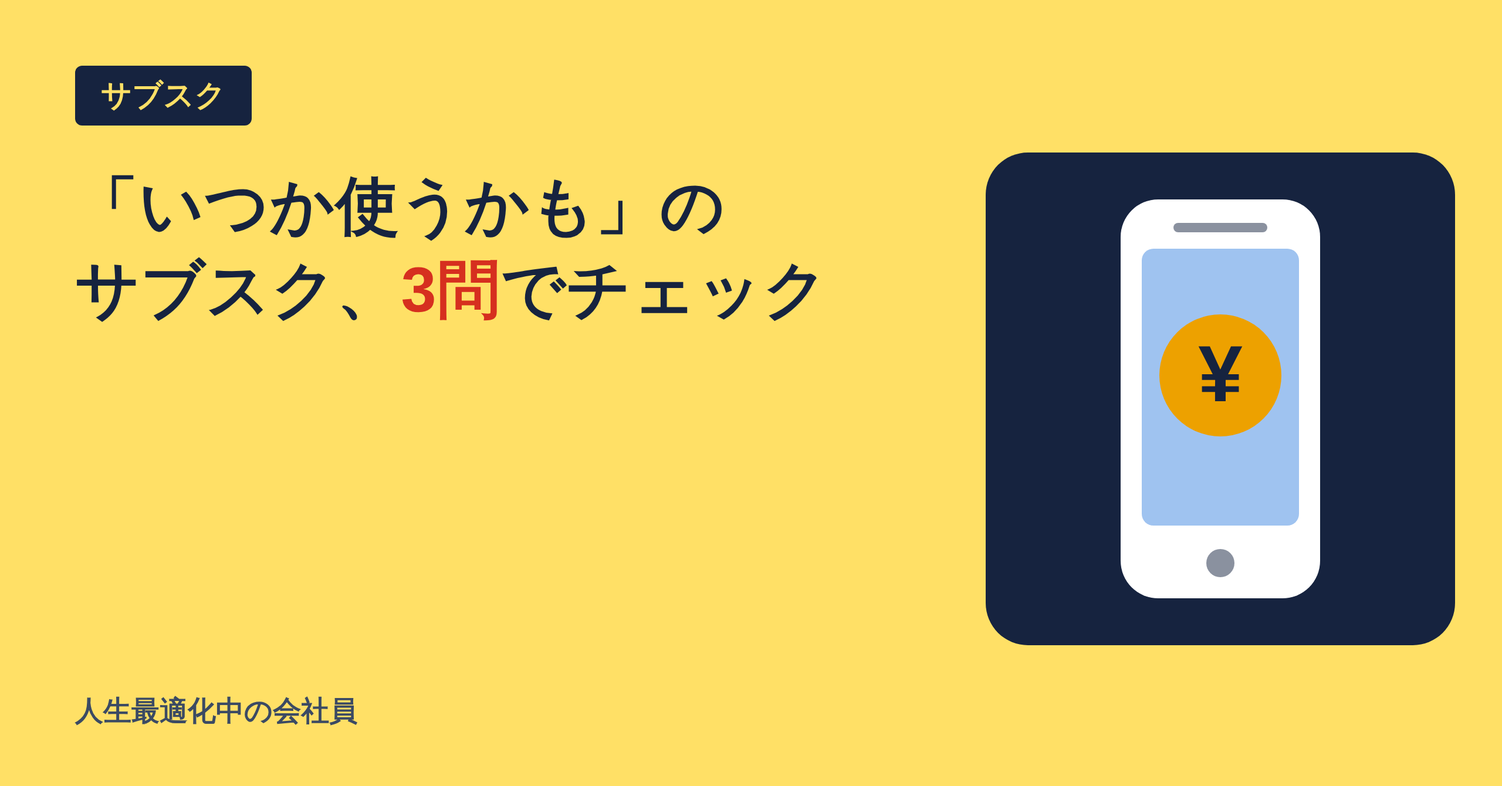
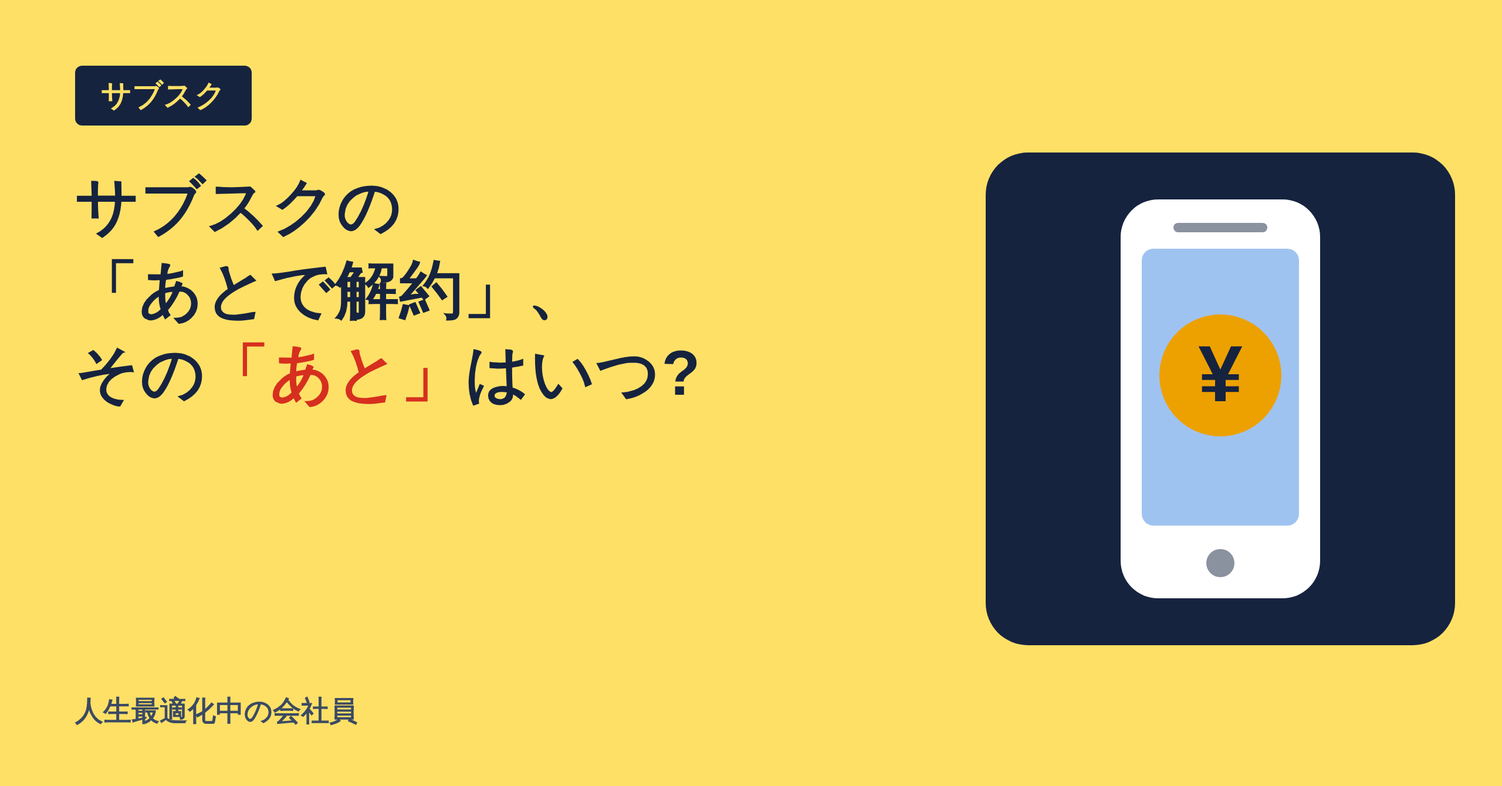
2026-10-27_001: title changed to 'あとで解約' version (owner chose option 3); 10-28_001 extra research
Claude-Session: https://claude.ai/code/session_019jxzMkHZEL8EPC28xkVZW1

Changed region(s): [[0.0312, 0.2142, 0.5625, 0.5201]]

diff --git a/runs/2026-10-28_001/01_research.md b/runs/2026-10-28_001/01_research.md
@@ -72,11 +72,108 @@
 - [S3] 【20代特に注意!】簡単に稼げるという副業 | 国民生活センター | https://www.kokusen.go.jp/news/data/n-20231027_1.html | 公開日:2023-10-27 | 取得日:2026-10-28 | 信頼度:高(約3年前の発表。古い)
 - [S4] No.1500 雑所得 | 国税庁 | https://www.nta.go.jp/taxes/shiraberu/taxanswer/shotoku/1500.htm | 公開日:2026-04-01(「令和8年4月」時点の法令等と確認) | 取得日:2026-10-28 | 信頼度:高
 - [S5] No.1900 給与所得者で確定申告が必要な人 | 国税庁 | https://www.nta.go.jp/taxes/shiraberu/taxanswer/shotoku/1900.htm | 公開日:2026-04-01(「令和8年4月1日現在法令等」と記載) | 取得日:2026-10-28 | 信頼度:高
-- [S6] 「ふなばし健康ポイント」とは? | 船橋市公式ホームページ | https://www.city.funabashi.lg.jp/kenkou/iryou/011/p064712.html | 公開日:2026-10-28(掲載日の記載なし。確認できた日付=取得日。獲得期間は令和8年4月1日〜令和9年3月31日) | 取得日:2026-10-28 | 信頼度:高
+- [S6] 「ふなばし健康ポイント」とは? | 船橋市公式ホームページ | https://www.city.funabashi.lg.jp/kenkou/iryou/011/p064712.html | 公開日:2026-10-28(掲載日の記載なし。確認できた日付=取得日。獲得期間は令和8年4月1日〜令和9年3月31日) | 取得日:2026-10-28 | 信頼度:高(追加調査で再度開き、ページの更新日が令和8年4月1日と確認。下のS6補足を参照)
 - [S7] 都政モニターの募集(令和8年度) | 東京都 政策企画局 | https://www.metro.tokyo.lg.jp/information/press/2026/04/2026042301 | 公開日:2026-04-23 | 取得日:2026-10-28 | 信頼度:高(募集は終了済み)
+- [S8] 国立映画アーカイブ ご利用案内(上映ホール・展示室の料金) | 国立映画アーカイブ(国の機関) | https://www.nfaj.go.jp/visit/goriyou/ | 公開日:2026-10-28(掲載日の記載なし。確認できた日付=取得日) | 取得日:2026-10-28 | 信頼度:高
+- [S9] 文化庁芸術祭「無料モニター」募集(令和8年度) | 文化庁 | https://www.bunka.go.jp/seisaku/geijutsubunka/jutenshien/geijutsusai/r08/94414001.html | 公開日:2026-10-28(掲載日の記載なし。確認できた日付=取得日。応募期間は令和8年8月7日〜9月2日) | 取得日:2026-10-28 | 信頼度:高(受付は終了済み)
+- [S10] eモニターアンケート | 船橋市公式ホームページ | https://www.city.funabashi.lg.jp/shisei/kouchou/002/p120231.html | 公開日:2026-10-06(ページの更新日) | 取得日:2026-10-28 | 信頼度:高(令和8年度の募集は終了済み)
+- [S11] インターネット都政モニター(令和8年度、応募受付終了) | 東京都 | https://www.metro.tokyo.lg.jp/tosei/iken-sodan/monitor | 公開日:2026-10-15(ページの更新日) | 取得日:2026-10-28 | 信頼度:高(受付は終了済み)
+- [S12] 国土交通行政インターネットモニターの募集について | 国土交通省 | https://www.mlit.go.jp/report/press/kanbo01_hh_000297.html | 公開日:2026-01-23 | 取得日:2026-10-28 | 信頼度:高(募集期間は2026-02-02〜02-27で終了済み)
+- [S13] 令和8年度 堺市 市政モニター | 堺市 | https://www.city.sakai.lg.jp/shisei/koho/kocho/shiseimonita/r8/shiseimonitor-R8.html | 公開日:2026-08-01(ページの更新日) | 取得日:2026-10-28 | 信頼度:高(募集は終了済み。対象・謝礼の記載なし)
 
 ### 開けなかった・未照合のページ(事実には使っていない)
 - TOHOシネマズ(tohotheater.jp)、TOHO(toho.co.jp)、セゾンカード(saisoncard.co.jp。シネマイレージ特約PDF)、ユナイテッド・シネマ、109シネマズ、イオンシネマ、Filmarks、impress Watch: 開けなかった(通信制限と思われる)。
 - 消費者庁の「簡単な副業をうたい高額なサポートプランを契約させる事業者に関する注意喚起」(令和7年6月26日、PDF): PDFが読めず、内容は未照合。国民生活センター2026-05-20の注意喚起(副業サポート名目の借り入れ)も、検索の要旨のみで未照合。
 - 消費者庁の消費者向け「景品表示法 運用基準」の本文: 開いていない。
 - 参考にした検索結果(未照合): appllio(2025-04-11)、J-CAST(2025-04-11)の各ページ。開いていないため、情報源の一覧には入れていない。
+
+---
+
+## 追加調査(2026-10-28 追記。持ち主の新方針「安全と確認できる公式の制度を、やり方を簡単に紹介する」ため)
+
+調べ方: 公的機関・自治体の公式ページを開いて本文を確認できたものだけを「確認できた制度」に書いた。開けない(名前解決エラー、404、PDFが読めない)もの、検索結果の要旨だけのものは「未照合」に分け、事実に使っていない。情報源は上の「情報源」の [S8]〜[S13] と、既出の [S6][S7]。
+
+### 追加調査の結論(先に)
+- 「今この瞬間に募集中で、本文を確認できた公式のモニター制度」は、今回は見つからなかった。確認できたモニター制度(東京都・船橋市・国土交通省・堺市・文化庁芸術祭)は、令和8年度の受付が終わっている。ただし、船橋市の「eモニター」は令和9年2月から募集予定と公式に書かれている [S10]。
+- 今も使える(常時または期間中)と本文で確認できたのは、国立映画アーカイブの料金・無料の案内 [S8] と、船橋市の健康ポイント(令和9年3月31日まで)[S6]。
+- 映画館・口コミサイトは今回も開けていない。映画を入口にするなら、公的機関の「国立映画アーカイブ」が、公式の本文で確認できる唯一の映画の材料。
+
+### 追加調査:確認できた制度(事実。各制度を「対象/もらえるもの/手順/期限・注意」に整理)
+
+#### 制度1 国立映画アーカイブ(映画の上映・展示室。国の機関)[S8]
+- 誰が対象か: 上映ホール(所蔵作品上映)は誰でも観られる。無料になるのは、上映ホールでは「障害者手帳の所持者(付添者は原則1名まで)」と「国立美術館キャンパスメンバーズ(国立映画アーカイブ利用校)の学生・教職員」。無料は当日券のみ。展示室は、高校生以下・18歳未満・65歳以上・障害者手帳の所持者(付添者は原則1名まで)・キャンパスメンバーズの学生・教職員が無料。
+- 何がもらえるか(公式の言葉): 「一般520円、高校・大学生と65歳以上は310円、小・中学生は100円」(上映ホール)。「一般250円/大学生130円」(展示室。20名以上の団体料金は一般200円、大学生60円)。展示室の無料観覧日は「5月18日(国際博物館の日)と11月3日(文化の日)」。上映の観覧券(半券可)を見せると、展示室で1回に限り団体料金が適用される。ポイントや現金がもらえる制度ではない。
+- 申し込みの手順: 上映の券は、オンラインか窓口で買う。窓口は現金、クレジットカード(Visa、Master)、交通系ICカードが使える。学生・65歳以上・障害者手帳・キャンパスメンバーズの人は、証明できるものを見せる。
+- 期限・注意: 特別上映や共催上映は、企画ごとに料金が違う。展覧会によって金額が違う場合がある。無料観覧日が月曜日に当たる場合は休館。毎月末の金曜日は20:00まで開室(入室は19:30まで)。ページに掲載日の記載はなく、取得日(2026-10-28)に確認。実際の上映作品・日程は、各上映ページを見る必要がある(今回は料金・チケット案内のページだけ確認。上映カレンダーの本文に料金の記載はなかった)。
+- 追加の確認: 同機関の企画展「没後70年 映画監督 溝口健二」は2026-08-11〜2026-12-13の会期と、機関のサイトに書かれていた(展示ページより。料金は未確認)。(推測)2026-11-03(文化の日)は展示室の無料観覧日のため、記事の公開時期と重なる。ただし溝口展が無料観覧日の対象かどうかは、ページに書かれていないので書かない。
+
+#### 制度2 健康ポイント(船橋市の例。自治体)[S6]
+- 誰が対象か: 市内在住・在勤・在学の18歳以上。
+- 何がもらえるか(公式の言葉): 歩数ポイントは「1日1回5P」、測定ポイントは「月1回50P」など。「500P以上で『ち～バリュ～カード』(協賛店で割引等)」、「1,000P以上で景品の抽選に応募できる」。景品は抽選で、当選ランクは獲得ポイントで決まる。「梅以上は全員が当たる」と書かれている。景品の内容は変更される場合がある。
+- 申し込みの手順: 参加方法は、スマホアプリ、活動量計、ICカード、「すこちゃん手帳」から選ぶ。手順の詳細は、ページからリンクされた「ふなばし健康ポイントの参加方法」に書かれている(今回そのページは未確認)。景品は1,000P以上で、希望のコースを選んで応募する。
+- 期限・注意: 参加期間は令和8年4月1日〜令和9年3月31日。景品の抽選応募期間は令和9年2月1日〜3月31日。「すこちゃん手帳」で応募する場合は4月15日までに提出。参加費用と、年度途中の参加の可否は、このページに記載なし。グループポイントは初年度のみ申し込みが必要。ページの更新日は令和8年4月1日。当選結果の発表は景品の発送をもって代えるとある。
+
+#### 制度3 eモニターアンケート(船橋市。自治体)[S10]
+- 誰が対象か: 船橋市に住む18歳以上。登録時に住民基本台帳と照合して本人確認をする。
+- 何がもらえるか: ページに謝礼の記載なし(報酬の金額は書けない)。
+- 申し込みの手順: ①登録する(募集期間中)。②登録から1か月以内に登録完了メールが届く(届かないときはページ下部のメールフォームで連絡)。③アンケートメールが届くので回答する(無記名)。④年度末に翌年度も続けるかを回答する。@city.funabashi.lg.jpのメールを受け取れる設定が必要。
+- 期限・注意: 令和8年度の募集は令和8年9月末に終了。令和9年度は「令和9(2027)年2月〜本ページにて募集予定」。月に1〜2回アンケート依頼メールが届き、1回の回答は5分ほどと書かれている。ページの更新日は令和8年10月6日。
+
+#### 制度4 インターネット都政モニター(東京都。自治体)[S7][S11]
+- 誰が対象か: 18歳以上で都内在住、個人のメールアドレスがある人。国・都・区市町村の職員は不可。定員は500名。[S7][S11]
+- 何がもらえるか(公式の言葉): 回答1回ごとに「500円の図書カード」か「500東京ポイント」。任期終了時にまとめて渡される。後から変更はできない。[S11]
+- 申し込みの手順: 令和8年度の応募期間は2026-05-12〜05-28(S7)で、現在は受付終了。応募の手順は、現在のページ [S11] には書かれていない。選考結果はメールで6月末までに知らせると書かれている(性別・年代・地域を考慮して選ぶ。先着ではない)。[S11]
+- 期限・注意: 任期は令和9年3月31日まで、年6回ほどのアンケート(約1か月おき)。次の募集時期は、今回の公式ページでは確認できていない。ページの更新日は令和8年10月15日。
+
+#### 制度5 文化庁芸術祭「無料モニター」(文化庁。国)[S9]
+- 誰が対象か: 鑑賞後のアンケートに協力できる人。未就学児は除く。舞台公演をあまり見たことがない人や、生徒・学生も応募できる。1名または2名で申し込める。
+- 何がもらえるか(公式の言葉): 対象公演を「無料で鑑賞できる」。交通費は支給されない。現金の報酬の記載はない。対象は舞台公演(歌舞伎、オーケストラ、バレエ、文楽、オペラなど)で、映画ではない。
+- 申し込みの手順: 応募フォームからのみ受け付け。応募が多い場合は抽選。入力内容に不備があると落選になる場合がある。当選者には9月中にメールで連絡、連絡がなければ落選。
+- 期限・注意: 令和8年度の受付は9月2日で終了(応募期間は令和8年8月7日〜9月2日)。鑑賞できるのは1人1公演。権利の譲渡や転売は禁止。鑑賞後のアンケート回答が必須。次年度の募集時期は確認できていない。
+
+#### 制度6 国土交通行政インターネットモニター(国土交通省。国)[S12]
+- 誰が対象か: 日本国内に住む18歳以上(令和8年4月1日現在)で、インターネットを使える人。議員、国土交通行政に関係する常勤の公務員、所管の独立行政法人等の役職員、その同居の親族は不可。募集は全国から1,000名程度。
+- 何がもらえるか: 発表ページには謝金の記載なし(募集要領PDFに書かれるとあるが、PDFは未確認)。金額は書けない。
+- 申し込みの手順: 募集期間中に、モニター専用サイト(https://www.monitor.mlit.go.jp/)の応募フォームから応募する。
+- 期限・注意: 令和8年度の募集期間は2026-02-02〜02-27で終了。モニターの仕事は、サイトに掲示されるアンケートへの回答など。
+
+#### 制度7 市政モニター(堺市の例。自治体)[S13]
+- 令和8年度の募集期間は5月1日〜5月31日で終了。応募者は756人で、住んでいる区域・性別・年齢などを考慮して抽選。対象・謝礼・応募手順は、このページに記載なし。ページの更新日は2026-08-01。記事では「市政モニターは多くの市で春ごろに募集し、抽選のことがある」という例として、1行で触れる程度が適当(推測)。
+
+### 追加調査:未照合(開けない・要旨だけ。事実に使わない)
+- 次の自治体の映画上映会などは、検索結果の要旨でしか確認できていない(公式ページは名前解決エラー・404・PDF読み取り不可で開けなかった)。いずれも未照合。
+  - 千葉市の「まくはり字幕上映会」(要旨: 2026-11-08、無料、定員先着50名、申込期間は10/1〜11/1)。
+  - 名古屋市昭和区の「親子ふれあい映画会」(要旨: 2026-08-05、無料。申込は終了)。
+  - 徳島市立図書館の夜の上映会(要旨: 無料、定員15名、2026-08-28と2027-03-27)。
+  - 岡山市立万富公民館「シアター万富」、愛知県みよし市の映画上映会、図書館の上映用サービス「みんなでシネマ」(いずれも要旨のみ)。
+- 市政・町のモニター(上山市、会津若松市、小樽市、仙台市、枚方市、北九州市、京都府)の募集状況と謝礼(図書カード、QUOカード、デジタルギフト500円分など)は、まとめサイトや検索の要旨の情報で、公式ページを開けていない。上山市と会津若松市は「随時募集」という記載があったが、まとめサイトの情報で、現在の募集かどうか未照合。
+- 厚生労働省「厚生労働行政モニター」(要旨: 令和8年度450人、年3回程度のアンケート): ページが404で開けず、未照合。
+- 健康ポイントの他の自治体(鶴岡市、見附市、白河市、旭市、福井市、新宿区など): PDFが読めない、または開けない。検索の要旨のみで、未照合。
+- 国立映画アーカイブの上映の料金について、第三者サイト(Tokyo Artbeat)にも金額の記載があったが、公式 [S8] と同じ金額で、第三者サイトは使わない。
+- 全国で「今、募集中」の公式モニターの網羅的な一覧は作れていない。映画館のポイント・割引日(TOHO、映画の日など)は、前回と同じく公式ページを開けず、未照合のまま。
+
+### 追加調査:推測・意見(AIの推測を含む)
+- (推測)「公式で今すぐ申し込める」制度が少ないので、記事は「今すぐ申し込む手順」ではなく、「探し方と、申し込みの流れの型」を中心にしたほうが、嘘のない記事になる。モニター制度の多くは、年に1回、春(2〜5月)に募集する例が見られた(東京都5月、堺市5月、国土交通省2月、船橋市は2月予定)。ただし、これは今回確認した数件だけの傾向で、一般化はできない。
+- (推測)「映画を入口にする」なら、「映画を観る→お金がもらえる?→映画そのものでは、公式に確認できるのは割引や無料の条件(国立映画アーカイブ)で、現金がもらえる制度は見つからなかった→かわりに、公的なモニターや健康ポイントなら公式に書かれた報酬(図書カード500円分など)がある」という流れが書ける。
+- (推測)「稼ぐ」ではなく、「謝礼・割引・ポイントを、条件どおりに受け取る」という言い方なら、金額を断定せずに書ける。報酬は公式の言葉のまま(例:「500円の図書カード」)。船橋市のeモニターや国土交通省のモニターのように、金額が確認できない制度は、金額を書かない。
+- (推測)読者が申し込む際は、自分の住んでいる市区町村の公式サイトで確認する必要がある。対象は「市内在住」などが多い。
+
+### 追加調査:記事で「やり方を簡単に紹介」できる制度(選定。3〜5個)
+1. 健康ポイント(船橋市の例を型として紹介)[S6]
+   - 理由: 令和9年3月31日まで参加期間中で、いま読者が動ける。対象、ポイントの貯め方、500P・1,000Pのしくみ、景品抽選の期間が公式に具体的に書かれている。手順の型(登録→貯める→応募)が書きやすい。注意: 対象は船橋市の人。参加費用と年度途中の参加は書かれていないので、「自分の市区町村で確認を」と案内する。
+2. 国立映画アーカイブの上映・展示室(映画の入口)[S8]
+   - 理由: 映画の話題に合う、国の機関の公式ページ。料金、無料の対象、証明の見せ方、オンライン・窓口でのチケット購入、11月3日の無料観覧日が本文で確認できた。「お金がもらえる」ではなく「割引・無料を条件どおりに使う」と、断定せずに書ける。注意: 上映の無料は障害者手帳の所持者などに限られる。作品と日程は、各上映ページで確認が必要。
+3. 自治体のeモニターアンケート(船橋市の例)[S10]
+   - 理由: 申込の流れ(登録→完了メール→アンケート→年度末の継続確認)が公式に4段階で書かれ、「やり方を簡単に」に向く。次回は令和9年2月から募集予定と明記されていて、読者に「いつ」を伝えられる。注意: 謝礼は書かれていないので金額は書かない。対象は船橋市在住者。
+4. インターネット都政モニター(東京都)[S7][S11]
+   - 理由: 報酬が公式の言葉で確認できる(1回ごとに「500円の図書カード」か「500東京ポイント」)。対象、年6回ほど、任期終了時に受け取るなどの流れも書ける。注意: 令和8年度は終了済み。次回の募集時期は未確認なので、「毎年募集があるかは都のページで確認」と案内する。「例」として紹介する。
+5. 文化庁芸術祭「無料モニター」[S9]
+   - 理由: 「鑑賞(文化)を入口に、無料で観る」ことが、国の機関の公式ページで確認できる。手順(応募フォーム→抽選→メール連絡→鑑賞後アンケート)と注意(転売禁止、交通費なし)が具体的。注意: 対象は舞台公演で映画ではない。令和8年度は終了済みで、次年度の募集は未確認。5番目の候補、または「文化の鑑賞に関する公式制度の例」の1行で触れる。
+- 優先順位(推測): 読者がすぐ動けるのは1と2。3と4と5は「次の募集の探し方」の例として使う。
+
+### 追加調査:書いてはいけないこと
+- 未照合の上映会・モニター・健康ポイント(千葉市、徳島市、鶴岡市、会津若松市、上山市など)を、事実として書かない。
+- 国土交通省・堺市・船橋市eモニターの報酬の金額(公式ページに記載なし)。
+- 「稼げる」「得する」「年◯円もらえる」の断定。個人の体験や感想の創作。
+- 東京都の次回募集の時期、文化庁芸術祭の次年度の募集時期(確認できていない)。
+- 溝口健二展の料金や、無料観覧日の対象に含まれるかどうか(確認できていない)。

diff --git a/runs/2026-10-27_001/06_sns.md b/runs/2026-10-27_001/06_sns.md
@@ -1,15 +1,15 @@
-# SNS投稿案: 「いつか使うかも」のサブスク、3問でチェック
+# SNS投稿案: サブスクの「あとで解約」、その「あと」はいつ?
 ## X投稿案
-- 無料だったから入って、「いつか使うかも」と思ったまま、そっとしておく。そんな人もいると思います。毎月の引き落としを、3つの問いで確かめる記事を書きました。【記事URL】
+- 「あとで解約しよう」と思ったサブスク、その「あと」がいつなのかは、決めていない。そんな人もいると思います。毎月の引き落としを、3つの問いで確かめる記事を書きました。【記事URL】
 - 「あとで解約しよう」と思ったまま、月が替わる。請求は毎月届くのに、金額だけ見て終わる。そんな場面があるかもしれません。今日は1つだけ、問いに答えてみる記事です。【記事URL】
 - 3問です。①無料お試しが有料に変わる日を知っているか ②明細のサービスを、この1か月で使ったか ③解約の方法を知っているか。「いいえ」の数が、次に見る場所を教えてくれます。【記事URL】
 - 国民生活センターの見守り新鮮情報(第545号、2026年7月9日発行)は、明細を毎月確認するよう助言しています。「使っていない」と「払っていない」は別。確かめる手順をまとめました。【記事URL】
 - 国民生活センターの相談事例から。1か月無料の動画配信に登録し、アプリを削除したあとも、キャリア決済で毎月約2,000円の引き落としが数か月続いた例があります。相談1件の事例で、一般的な金額ではありません。【記事URL】
-- 【告知・投稿当日用】本日noteを公開しました。「『いつか使うかも』のサブスク、3問でチェック」。書き込める表もあります。助言ではなく一般的な情報です。【記事URL】
+- 【告知・投稿当日用】本日noteを公開しました。「『あとで解約』のサブスク、その『あと』はいつ?」。書き込める表もあります。助言ではなく一般的な情報です。【記事URL】
 - 【告知・2日後リマインド用】先日公開した、サブスクの3問チェックの記事です。今日は1つだけ、問いに答えてみる。表は保存して、来月の明細が届いた日にも使ってください。【記事URL】
 
 ## Threads投稿案
-- 無料だったから入って、「いつか使うかも」と思ったまま、そっとしておく。そんな人もいると思います。
+- 「あとで解約しよう」と思ったサブスク、その「あと」がいつなのかは、決めていない。そんな人もいると思います。
 
 「あとで解約しよう」と思ったまま月が替わったり、請求は毎月届くのに金額だけ見て終わったり。どちらも、気持ちとしては自然です。
 
@@ -35,7 +35,7 @@
 
 ## Instagram投稿案
 カルーセル案(全7枚)
-- 1枚目: 「いつか使うかも」のサブスク、3問でチェック / 毎月の引き落としを確かめます
+- 1枚目: サブスクの「あとで解約」、その「あと」はいつ? / 毎月の引き落としを確かめます
 - 2枚目: こんな場面、ありませんか。 / 無料だったから入って、そっとしておく / 「あとで解約しよう」のまま月が替わる
 - 3枚目: 問1 無料お試し中のものがあれば、有料に変わる日を知っていますか / (お試し中のものが無ければ「はい」)
 - 4枚目: 問2 明細に並ぶサービスを、この1か月で使いましたか / (使っていないものが1つでもあれば「いいえ」)
@@ -44,7 +44,7 @@
 - 7枚目: 身に覚えのない請求や、解約がうまくいかないときは、消費者ホットライン188へ。詳しくはnoteで(プロフィールのリンク) / 助言ではなく一般的な情報です
 
 ## Instagramキャプション
-無料だったから入って、「いつか使うかも」と思ったまま、そっとしておく。そんな人もいると思います。
+「あとで解約しよう」と思ったサブスク、その「あと」がいつなのかは、決めていない。そんな人もいると思います。
 
 毎月の引き落としを、3つの問いで確かめる記事を書きました。「はい」か「いいえ」で答えるだけです。「いいえ」が付いた問いの数だけ、見る場所が分かります。
 

diff --git a/runs/2026-10-27_001/author_notes.md b/runs/2026-10-27_001/author_notes.md
@@ -2,7 +2,7 @@
 
 ## 「あるある」(Claudeの提案・未確認)
 05_revised.md に、読者の場面として3か所。割合・数字は入れていない。合わなければ消す。
-1. 導入:「無料だったから入って、『いつか使うかも』と思ったまま、そっとしておく。そんな人もいると思います。」
+1. 導入:「「あとで解約しよう」と思ったサブスク、その「あと」がいつなのかは、決めていない。そんな人もいると思います。」
 2. つまずきやすいところ:「『あとで解約しよう』と思ったまま、日が過ぎてしまう。そう思いながら、月が替わる人もいると思います。」
 3. つまずきやすいところ:「請求は毎月届くのに、金額だけ見て終わる。合計が想像の範囲なら、中身までは開かない、という人もいるかもしれません。」
 (前ふり「チェック表の前に、こんな場面があるかもしれません。」は、あるあるに数えない短い導入文。)
@@ -19,3 +19,6 @@
 - 次回予告は入れていない。翌日のテーマが決まったら、お礼のあとに1〜2文を足す。
 - 表紙(icon phone、猫なし)。前のサブスク記事と同じ絵なので、見分けにくいかもしれない(批評は receipt を提案。今回は phone で進めた)。experiment_log.md に、変えた要素(背景は日付で自動)を書く。公開日は投稿後に教える。
 - 図は figures.json から作る(make-figures)。作ったあと、目視で確認する。
+
+## 2026-10-27 タイトル変更(持ち主の指示)
+- 「いつか使うかも」のサブスク、3問でチェック → サブスクの「あとで解約」、その「あと」はいつ?(持ち主が6案から3番を選んだ。初めて見る人にも『サブスクの話』と分かる・読者があまり考えていない『あと』がいつかを突く、が理由)。本文の3問チェックは、そのまま。

diff --git a/runs/2026-10-27_001/05_revised.md b/runs/2026-10-27_001/05_revised.md
@@ -1,10 +1,10 @@
-# 「いつか使うかも」のサブスク、3問でチェック
+# サブスクの「あとで解約」、その「あと」はいつ?
 
 【画像:2026-10-27_cover.png】
 
 こんにちは、人生最適化中の会社員です。今日は、毎月の引き落としを3つの問いで確かめます。
 
-無料だったから入って、「いつか使うかも」と思ったまま、そっとしておく。そんな人もいると思います。
+「あとで解約しよう」と思ったサブスク、その「あと」がいつなのかは、決めていない。そんな人もいると思います。
 
 先に結論です。次の3問に「はい」か「いいえ」で答えてみてください。「いいえ」が付いた問いの数だけ、見る場所が分かります。
 
